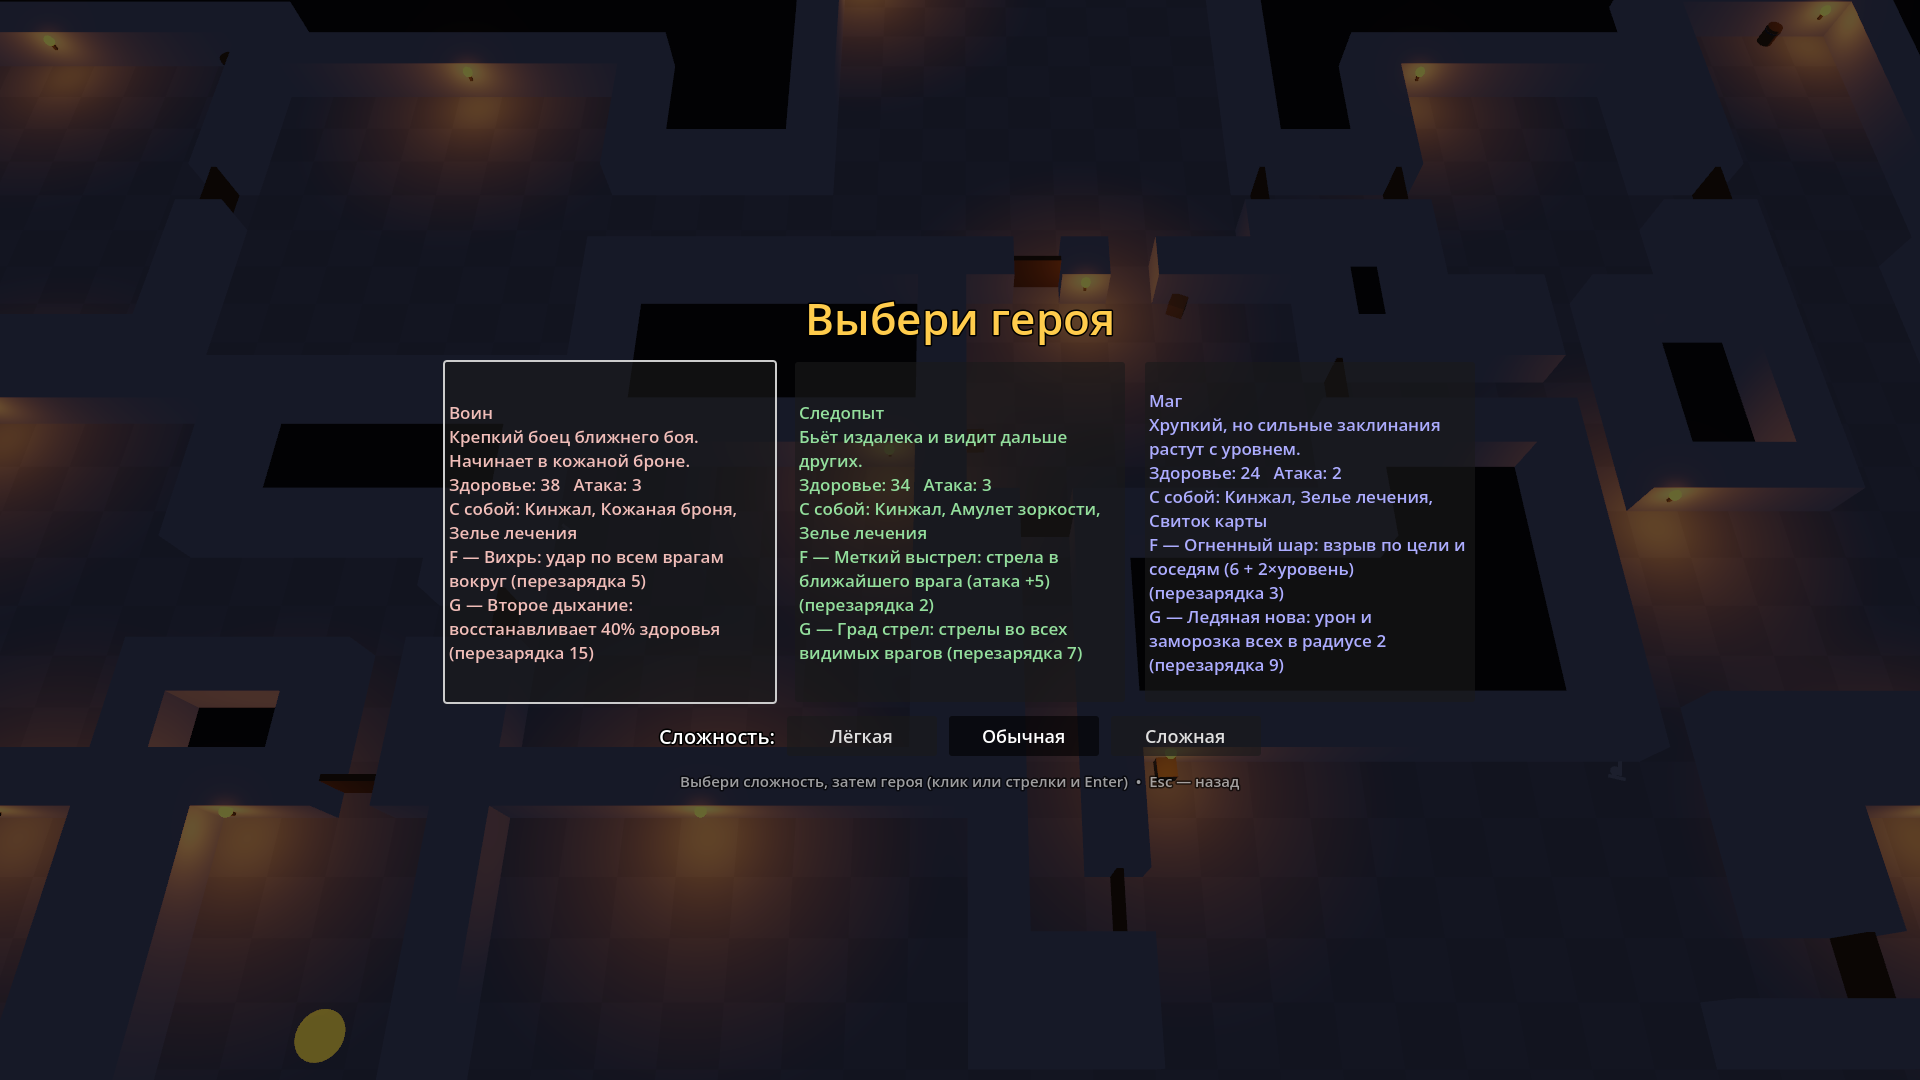
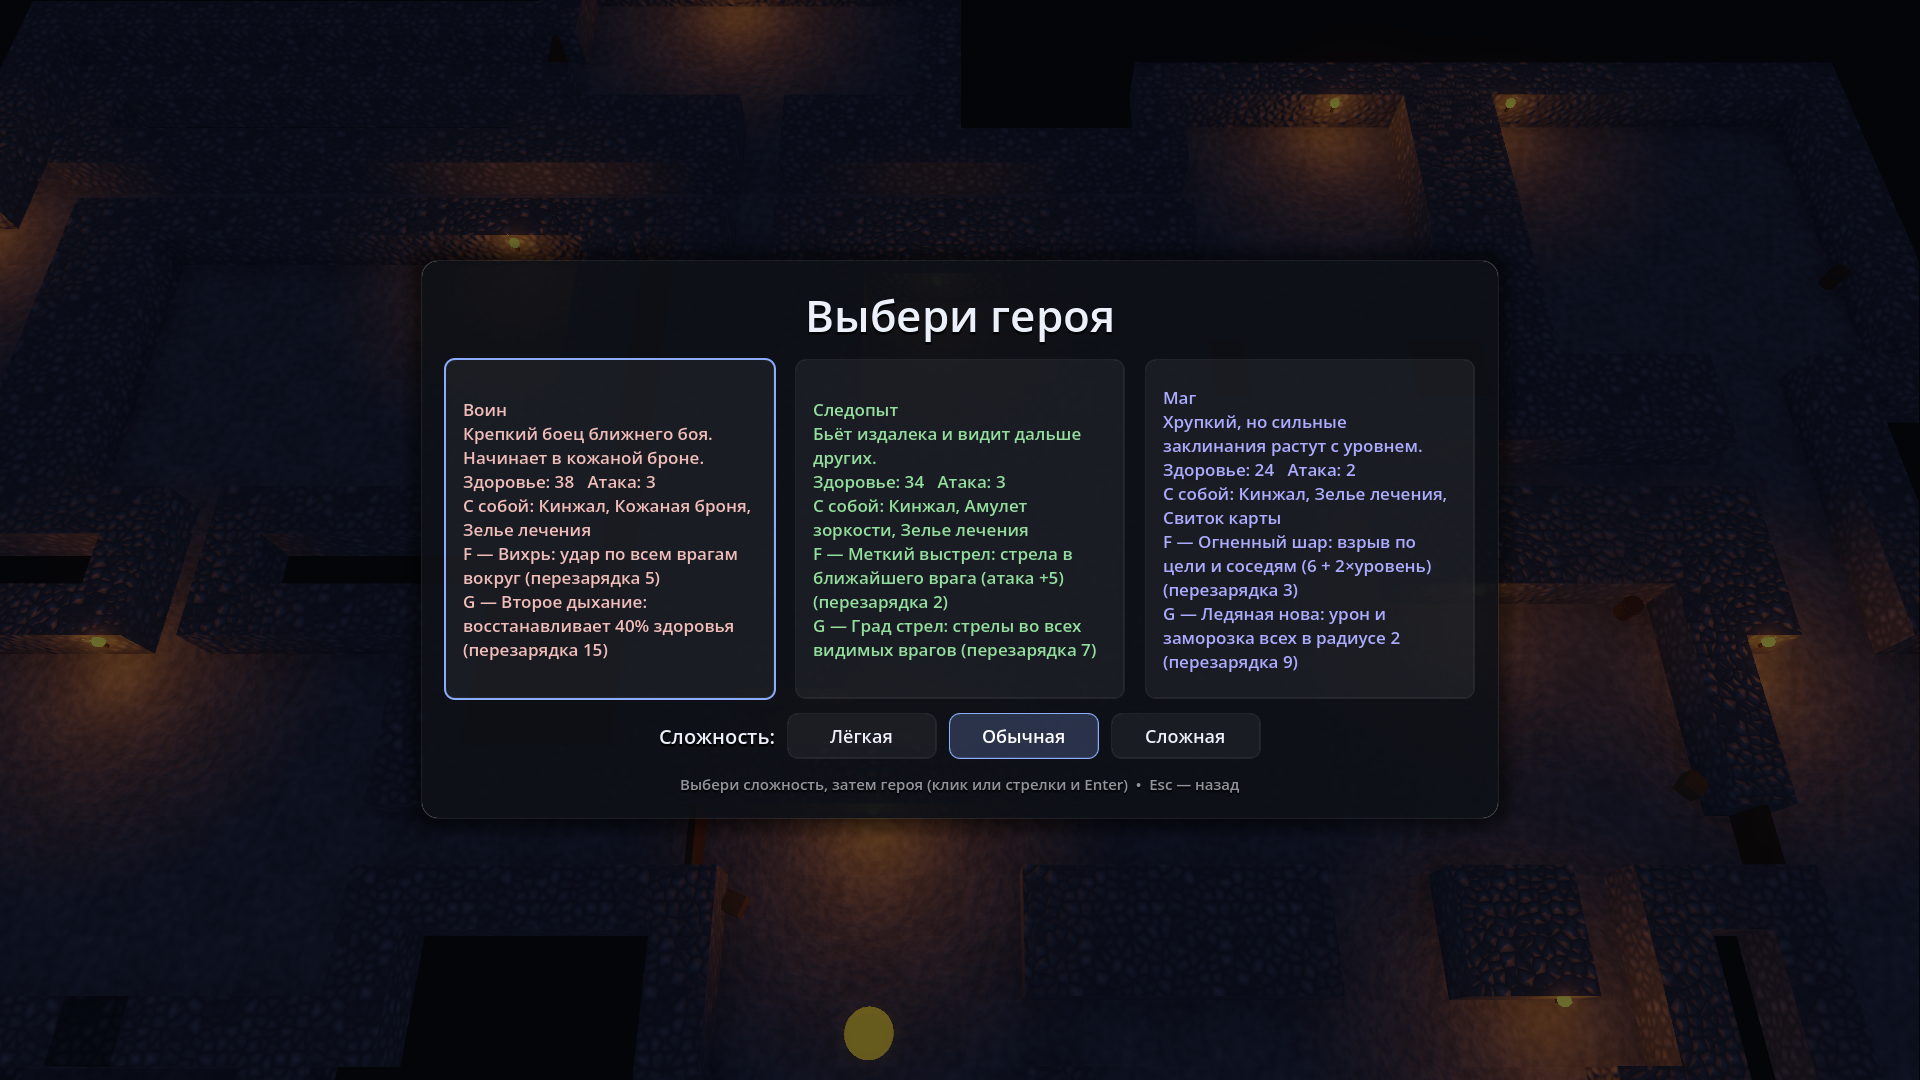
README и скриншоты для v1.1

diff --git a/README.md b/README.md
@@ -2,7 +2,7 @@
 
 Спустись на 15 этажей вниз и победи Владыку бездны. Каждый забег подземелье генерируется заново, а смерть окончательна.
 
-Игра написана на **C#** и движке **Godot 4.7 (.NET)**. Вся графика собрана из простых фигур прямо в коде, звуки синтезируются программно — в проекте нет ни одной картинки или аудиофайла.
+Игра написана на **C#** и движке **Godot 4.7 (.NET)**. Вся графика собрана из простых фигур прямо в коде, каменные текстуры генерируются из шума, звуки синтезируются программно — в проекте нет ни одной картинки или аудиофайла.
 
 ![Игровой процесс](docs/gameplay.png)
 
@@ -23,6 +23,12 @@ Windows может показать предупреждение SmartScreen («
 - **Предметы** трёх редкостей со случайными свойствами, 5 слотов экипировки, торговец и золото.
 - **Три уровня сложности**, сохранение забега, таблица рекордов, настройки.
 - **Умная ходьба**: удерживай клавишу — герой идёт сам и останавливается, как только происходит что-то важное.
+- **Атмосфера**: объёмный туман, мерцающие факелы с искрами, каменные текстуры с рельефом; настройка качества графики для слабых компьютеров.
+- **Минималистичный интерфейс** в цвет выбранного героя: инвентарь-сетка с цветным сравнением вещей.
+
+| Главное меню | Инвентарь |
+|---|---|
+| ![Главное меню](docs/menu.png) | ![Инвентарь](docs/inventory.png) |
 
 | Выбор героя | Пещеры |
 |---|---|
@@ -73,7 +79,7 @@ godot --path . -- --screenshot=shot.png --moves=200 --class=mage --start-floor=5
 godot --headless --path . -- --simulate=90 --difficulty=normal
 ```
 
-Другие флаги: `--view=menu|scores|pause|inventory|shop|settings|saveload|reveal|classes|classconfirm|hold`, `--difficulty=easy|normal|hard`.
+Другие флаги: `--view=menu|scores|pause|inventory|shop|settings|saveload|reveal|classes|classconfirm|hold`, `--difficulty=easy|normal|hard`, `--graphics=high|low`.
 
 ## Устройство кода
 
@@ -89,4 +95,5 @@ godot --headless --path . -- --simulate=90 --difficulty=normal
 | `ClassCatalog.cs`, `Difficulty.cs` | классы, способности, улучшения, уровни сложности |
 | `SaveSystem.cs`, `Settings.cs`, `HighScores.cs` | сохранение (JSON), настройки, рекорды |
 | `SoundManager.cs`, `Effects.cs` | синтез звуков, частицы и всплывающие цифры |
-| `Hud.cs`, `*Menu.cs`, `*Panel.cs`, `Minimap.cs`, `Ui.cs` | интерфейс |
+| `SurfaceMaterials.cs`, `GameManager.Graphics.cs` | каменные текстуры из шума, туман, SSAO, качество графики |
+| `Hud.cs`, `*Menu.cs`, `*Panel.cs`, `Minimap.cs`, `Ui.cs`, `UiTheme.cs` | интерфейс и его тема оформления |
